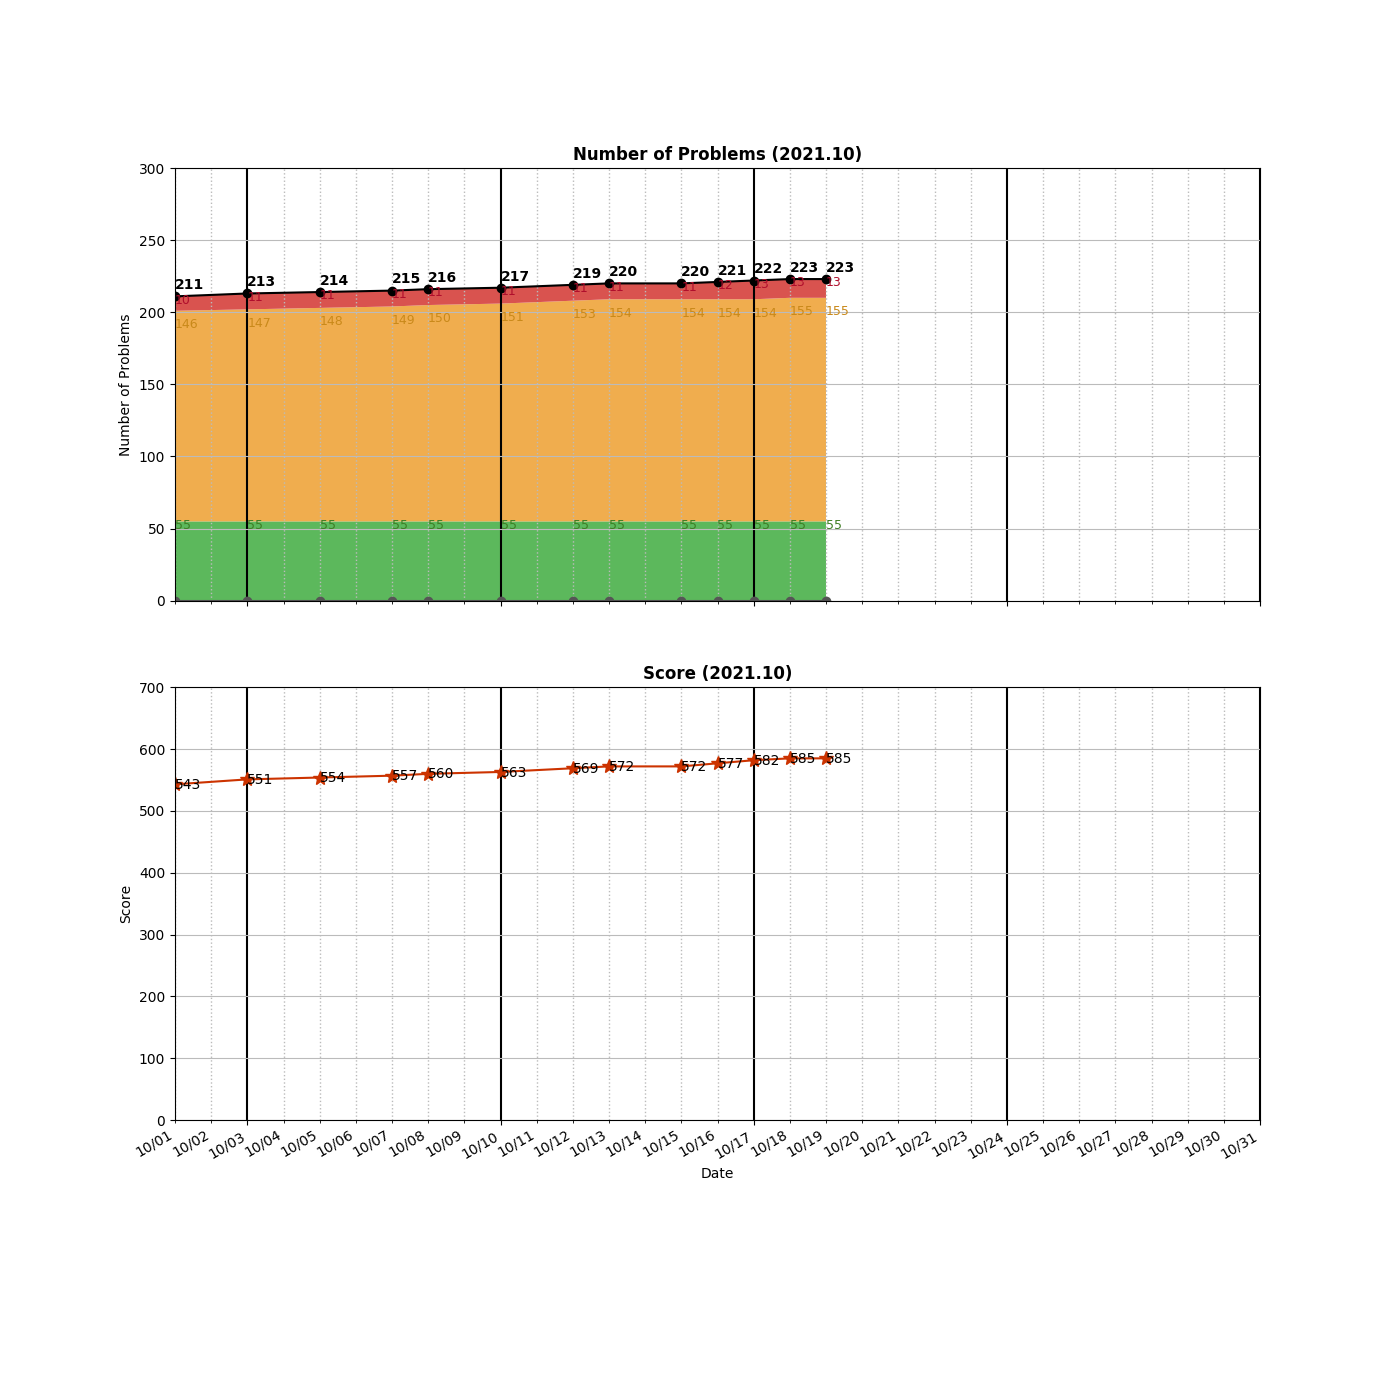
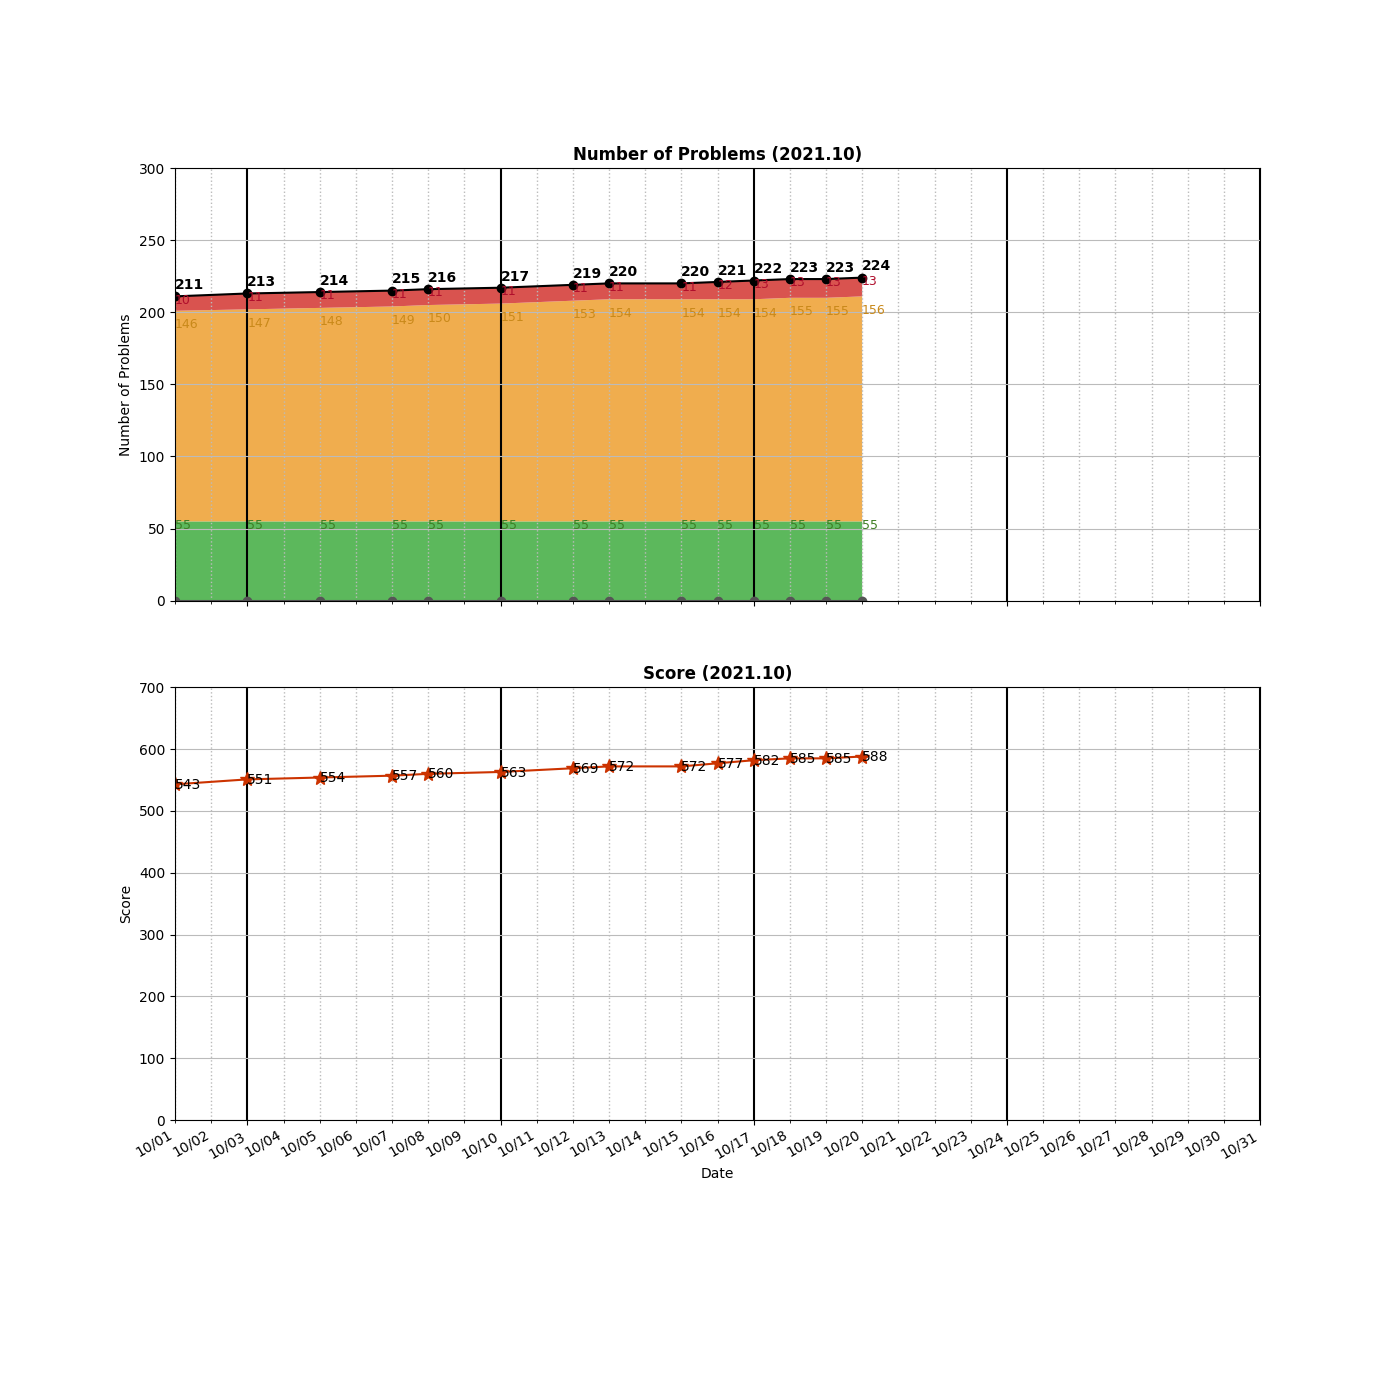
Added __1277__Count Square Submatrices with All Ones.py

Changed region(s): [[0.5836, 0.1843, 0.645, 0.43], [0.6143, 0.5221, 0.645, 0.5529]]

diff --git a/algo/DP/__1277__Count Square Submatrices with All Ones.py b/algo/DP/__1277__Count Square Submatrices with All Ones.py
@@ -1,0 +1,47 @@
+class Solution:
+    
+    #DP [O(M*N): 31%]
+    def countSquares(self, matrix: List[List[int]]) -> int:
+        
+        m, n = len(matrix), len(matrix[0])
+        row = [list(matrix[i]) for i in range(m)]
+        col = [list(matrix[i]) for i in range(m)]
+        acu = [list(matrix[i]) for i in range(m)]
+        
+        for i in range(len(row)):
+            for j in range(len(row[0])):
+                if j == 0:
+                    continue
+                if row[i][j] != 0:
+                    row[i][j] += row[i][j-1]
+        
+        for i in range(len(col)):
+            if i == 0:
+                continue
+            for j in range(len(col[0])):
+                if col[i][j] != 0:
+                    col[i][j] += col[i-1][j]
+        
+        count = 0
+        for i in range(len(acu)):
+            for j in range(len(acu[0])):
+                if matrix[i][j] == 1:
+                    acu[i][j] = min(row[i][j], col[i][j])
+                if i > 0 and j > 0:
+                    acu[i][j] = min(acu[i-1][j-1] + 1, acu[i][j])
+                count += acu[i][j]
+        
+        # print("---mat---")
+        # for r in matrix:
+        #     print(r)
+        # print("---row---")
+        # for r in row:
+        #     print(r)
+        # print("---col---")
+        # for r in col:
+        #     print(r)
+        # print("---acu---")
+        # for r in acu:
+        #     print(r)
+    
+        return count

diff --git a/README.md b/README.md
@@ -102,6 +102,7 @@ algo
 │   ├── __1130__Minimum Cost Tree From Leaf Values.py
 │   ├── __1137__N-th Tribonacci Number.py
 │   ├── __1143__Longest Common Subsequence.py
+│   ├── __1277__Count Square Submatrices with All Ones.py
 │   ├── __1395__Count Number of Teams.py
 │   ├── __1774__Closest Dessert Cost.py
 │   └── __1937__Maximum Number of Points with Cost.py
@@ -246,7 +247,7 @@ algo
         ├── LinkedList.cpython-37.pyc
         └── UnrolledLinkedList.cpython-37.pyc
 
-21 directories, 224 files
+21 directories, 225 files
 
 =====================================
 ============= Local Repo ============
@@ -457,6 +458,7 @@ __1143__Longest Common Subsequence.py
 __1214__Two Sum BSTs.py
 __1254__Number of Closed Islands.py
 __1268__Search Suggestions System.py
+__1277__Count Square Submatrices with All Ones.py
 __1382__Balance a Binary Search Tree.py
 __1391__Check if There is a Valid Path in a Grid.py
 __1395__Count Number of Teams.py
@@ -468,7 +470,7 @@ __1774__Closest Dessert Cost.py
 __1905__Count Sub Islands.py
 __1937__Maximum Number of Points with Cost.py
 =====================================
-Num of Python Practice:  216
+Num of Python Practice:  217
 
 
 =====================================
@@ -687,6 +689,7 @@ Num of Python Practice:  216
  1214 Two Sum BSTs
  1254 Number of Closed Islands
  1268 Search Suggestions System
+ 1277 Count Square Submatrices with All Ones
  1382 Balance a Binary Search Tree
  1391 Check if There is a Valid Path in a Grid
  1395 Count Number of Teams
@@ -699,10 +702,10 @@ Num of Python Practice:  216
  1937 Maximum Number of Points with Cost
 =====================================
 Solved / Total (Easy)  :   55 /  520
-Solved / Total (Medium):  155 / 1090
+Solved / Total (Medium):  156 / 1090
 Solved / Total (Hard)  :   13 /  435
-Solved / Total (All)   :  223 / 2045
-Total Score            :  585
+Solved / Total (All)   :  224 / 2045
+Total Score            :  588
 =====================================
 
 ```
